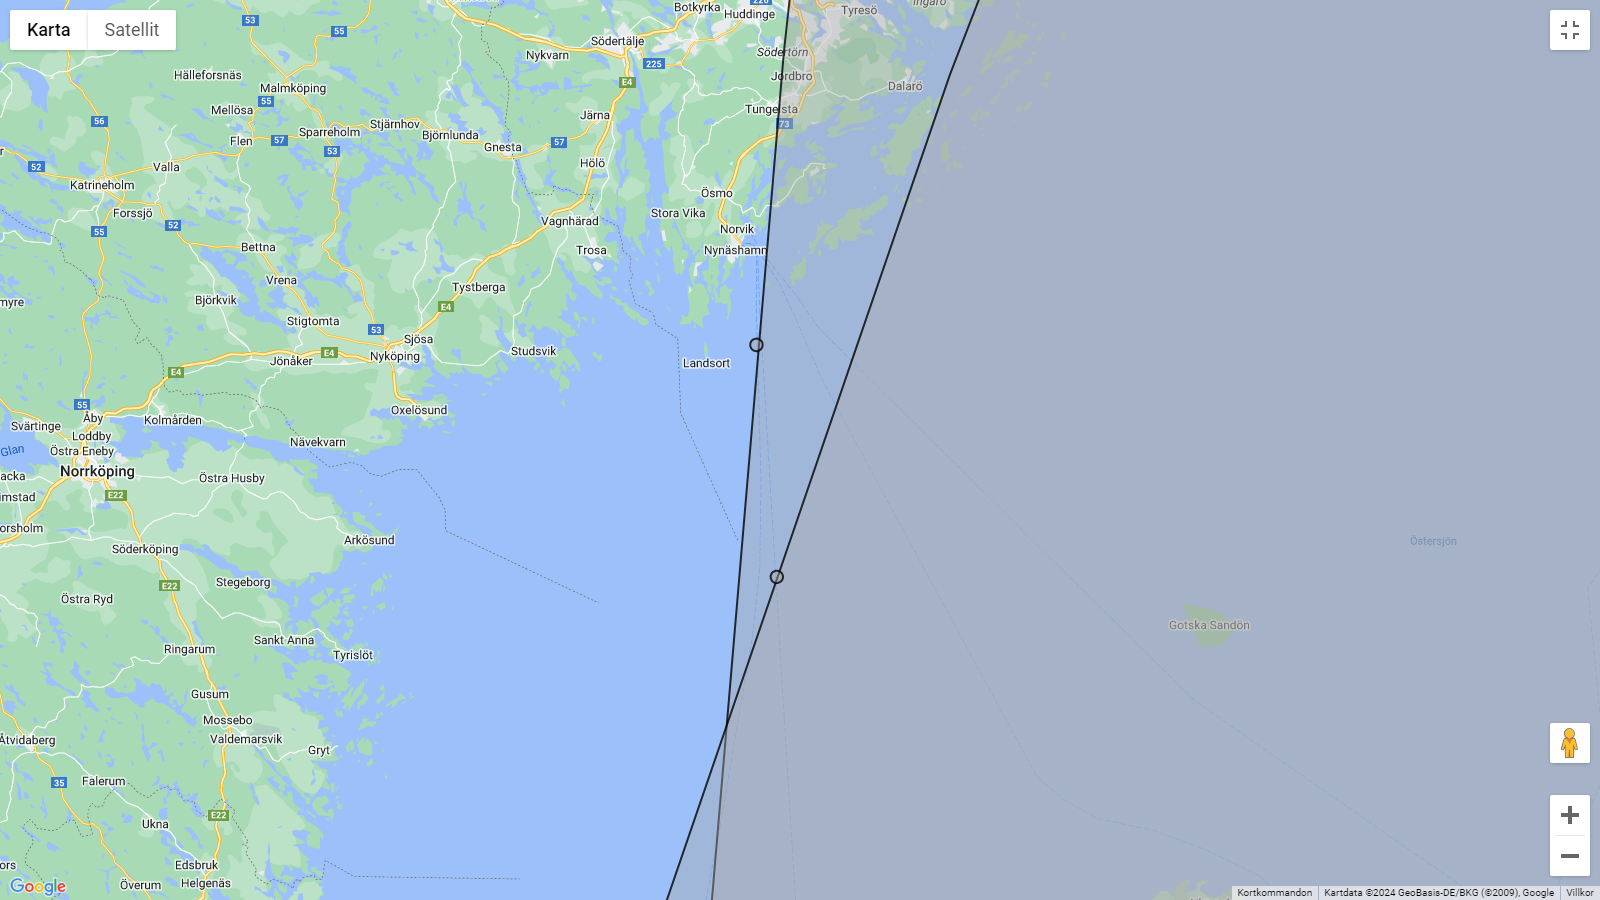
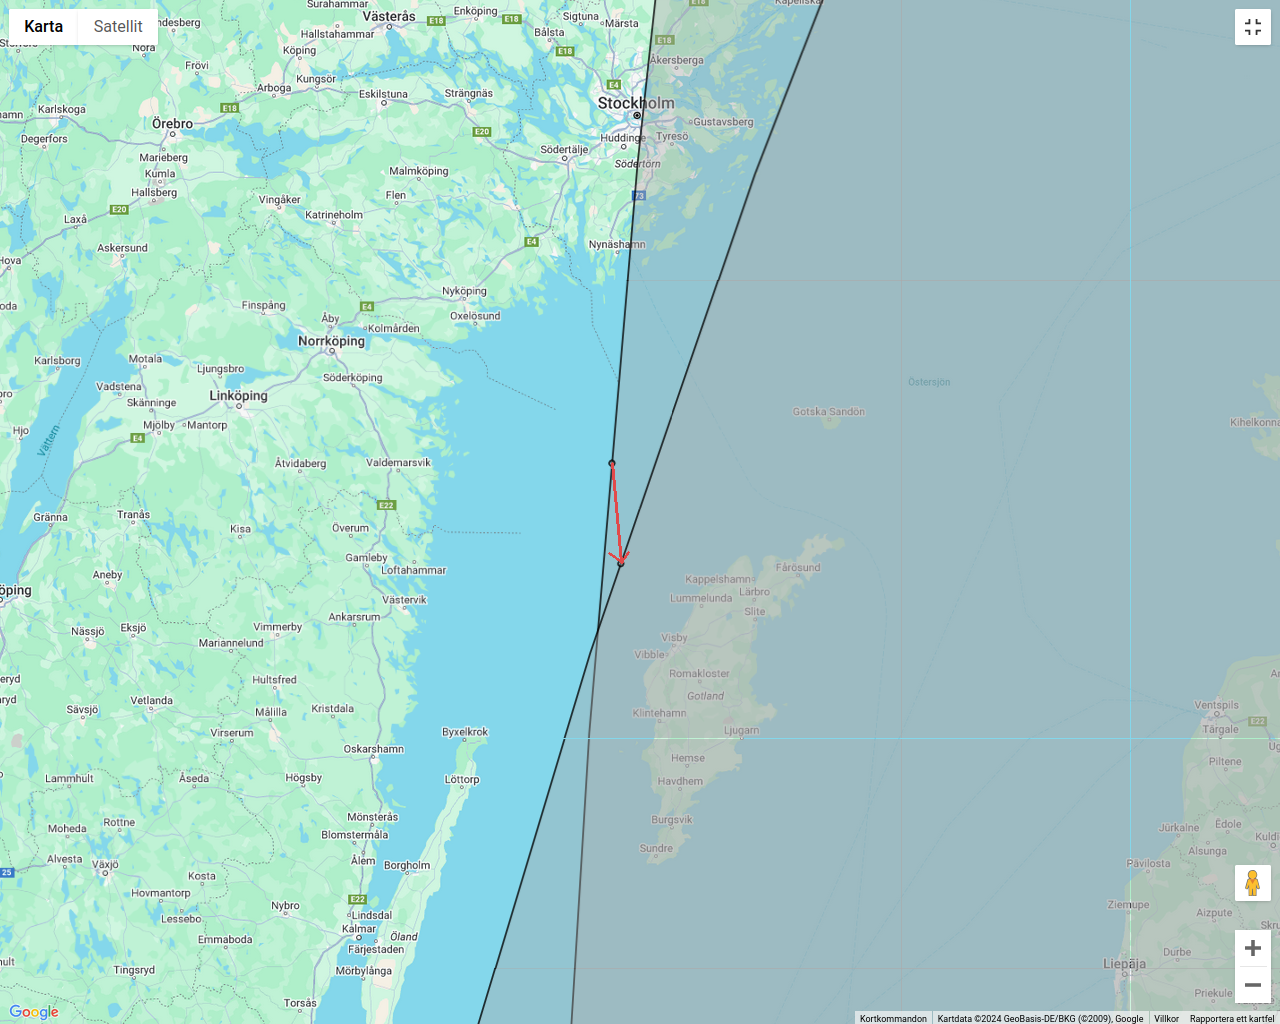
Clarifications

diff --git a/README.md b/README.md
@@ -26,7 +26,8 @@ You need a Google/Gmail account to run the code in the notebook*.
     1. [Running the chicago script](#run-chicago-script)
     1. [Azimuth calculation](#azimuth)
 1. [Dead Reckoning (Moving ships)](#dead-reckoning)
-    1. [Running the sea script](#run-sea-script)
+    1. [Running the sea script, from Sight to Sight](#run-sea-script)
+    1. [Running the sea script, from LatLon to Sight](#run-sea-script-2)
 1. [A real-life example](#real-life)
 1. [Terrestrial Navigation](#terrestrial)
 1. [Sextant Calibration](#calibration)
@@ -540,18 +541,15 @@ The smaller circle is the final observation with a higher Sun altitude.
 ![Sailing in the Baltic Sea](pics/baltic-intersection-1.png "Sailing in the Baltic Sea")
 
 When we move in closer we can clearly see the intersection $p_i$.
-
-![Sailing in the Baltic Sea (closeup)](pics/baltic-intersection-2.png "Sailing in the Baltic Sea (closeup)")
-
 And the course (with our positions) can easily be found using a paralellogram
 adjustment where we "squeeze in" a route of 20 NM, course 175 degrees, starting
 at the first small circle and ending at the final circle. The classical method
 of doing this is of course using a chart and proper plotting equipment and
 assume linearity of the circle segments.
 
-![Sailing in the Baltic Sea (closeup)](pics/baltic-intersection-2-edit.png "Sailing in the Baltic Sea (closeup)")
+![Sailing in the Baltic Sea (closeup)](pics/baltic-intersection-2.png "Sailing in the Baltic Sea (closeup)")
 
-### 4.i. Running the Sea script<a name="run-sea-script"></a>
+### 4.i. Running the Sea script, from Sight to Sight<a name="run-sea-script"></a>
 
 The script outputs the estimated starting and ending points for our trip segment
 (see the red arrow in the map above)
@@ -578,6 +576,62 @@ you have the coordinates here.
 
 You may also use the supplied Jupyter Notebook script
 [notebook.sea.ipynb](notebook_sea.ipynb).
+
+### 4.ii. Running the Sea script, from LatLon to Sight<a name="run-sea-script-2"></a>
+
+You may also write a script where the starting point is a known position (LatLon)
+and the target point is defined by a Sight.
+
+    # This is the starting position
+    s1_latlon = LatLon (58.23,17.91)
+
+    #This is the starting time
+    s1 = datetime.fromisoformat ("2024-06-20 06:14:38+00:00")
+
+    # This is the Sight we take at finish
+    s2 = Sight (  object_name          = "Sun", \
+                set_time             = "2024-06-20 07:13:38+00:00", \
+                gha_time_0           = "284:35.1", \
+                gha_time_1           = "299:35.0", \
+                decl_time_0          = "23:26.2", \
+                measured_alt         = "38:34:21.6" \
+                )
+
+    # We reach s2 by applying about 175 degrees for 1 hour with a speed of 20 knots.
+    c_course = 175
+    speed = 20
+    st = SightTrip (sight_start              = s1,\
+                    sight_end                = s2,\
+                    estimated_starting_point = s1_latlon,\
+                    course_degrees           = c_course,\
+                    speed_knots              = speed)
+
+    try:
+        intersections, _, _ = st.get_intersections ()
+    except IntersectError as ve:
+        print ("Cannot perform a sight reduction. Bad sight data.\n" + str(ve))
+        print ("Check the circles! " + st.get_map_developers_string())
+        exit ()
+    print ("MD = " + st.get_map_developers_string ())
+
+    # Diagnostics for map rendering etc.
+
+    assert isinstance (intersections, LatLon)
+    print ("Starting point = " + str(get_representation(s1_latlon,1)))
+    print ("End point = " + str(get_representation(intersections,1)))
+    print ("Distance = " +\
+            str(round(km_to_nm(distance_between_points(s1_latlon, intersections)),2)) + " nm")
+
+The algorithm used here is based on two steps.
+
+* Performing a straight segment of the dead-reckoning leg.
+* Calculating the great circle towards the GP of the Sight and
+deduce the intersection point.
+
+![Sailing in the Baltic Sea (closeup)](pics/baltic-intersection-3.png "Sailing in the Baltic Sea (closeup)")
+
+The supplied script sample [starfixdata_sea_2.py](starfixdata_sea.py) contains
+a demo for this.
 
 ## 5. A real-life example<a name="real-life"></a>
 
